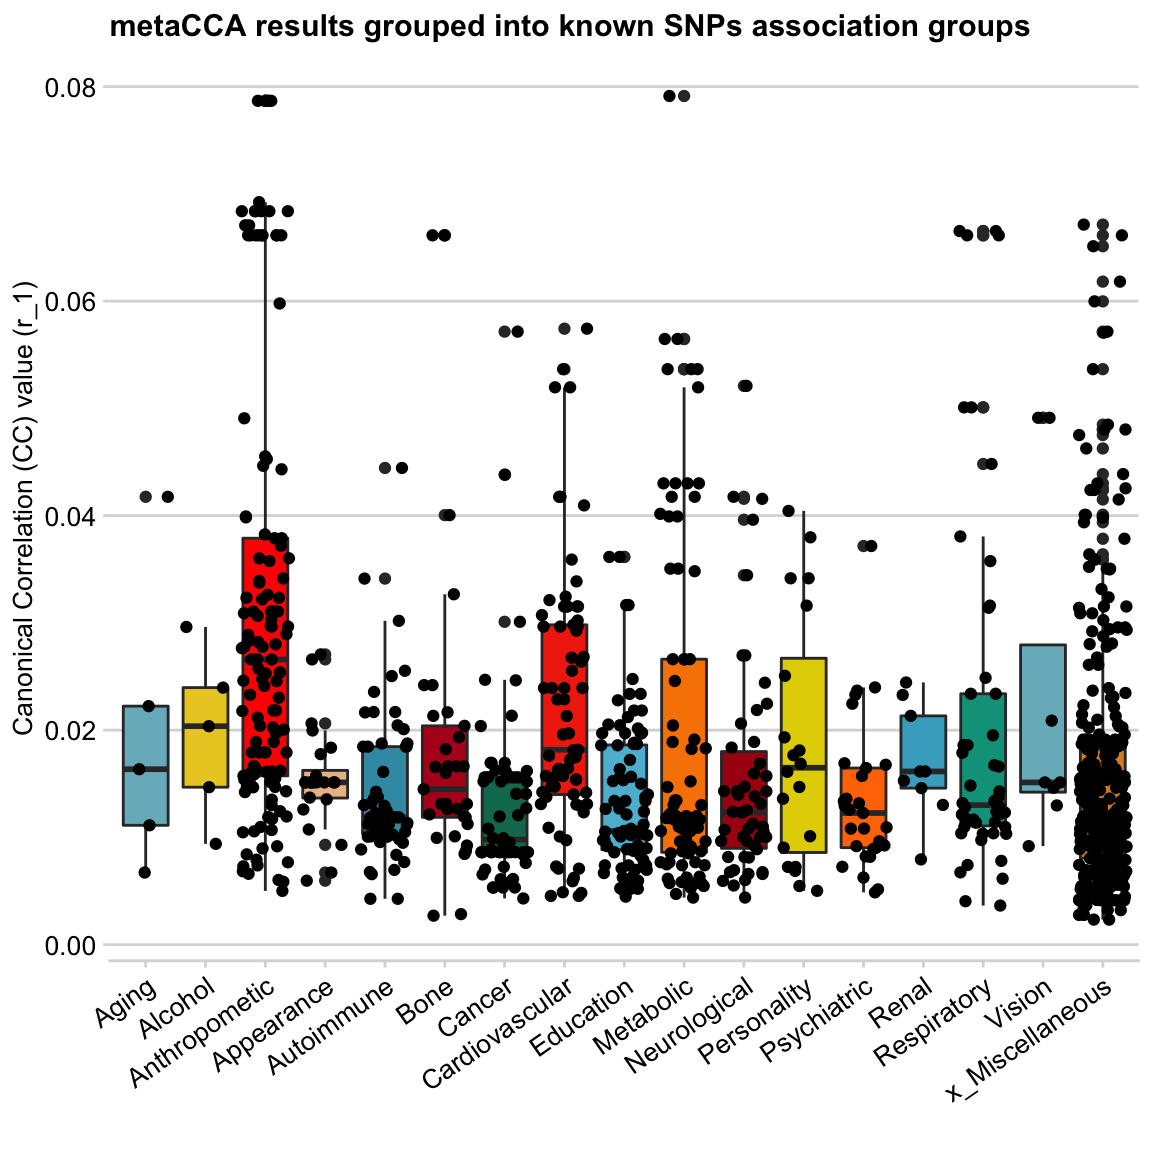
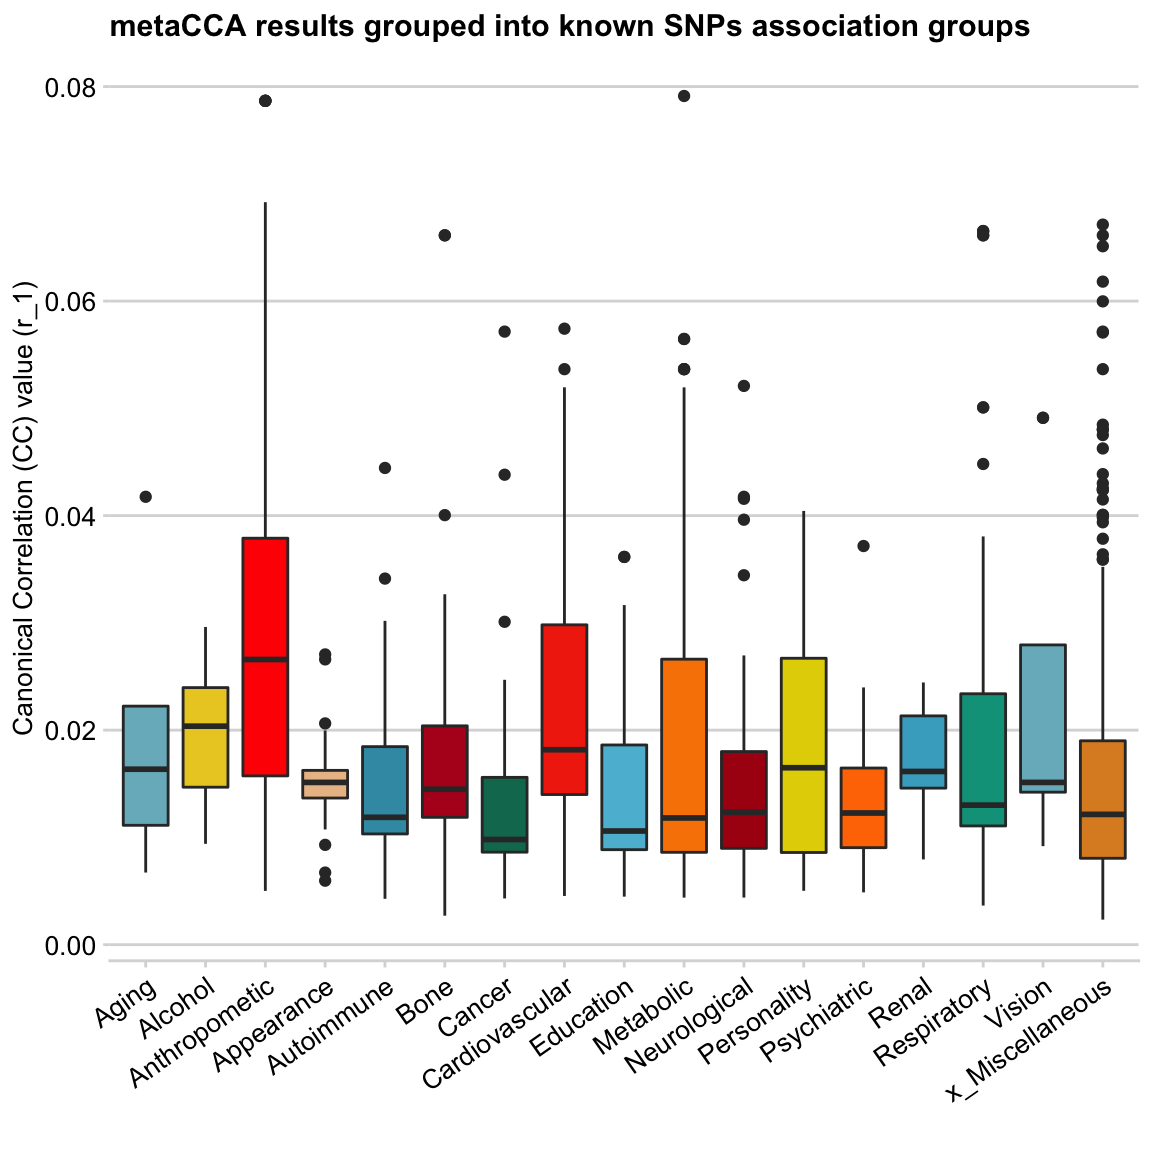
update images in blogpost

diff --git a/content/post/2020-05-20-bubble-box-plot-with-ggplot2.html b/content/post/2020-05-20-bubble-box-plot-with-ggplot2.html
@@ -46,26 +46,50 @@ I like pretty plots so here is how I make a boxplot.
 <div id="building-visualisation" class="section level3">
 <h3>Building visualisation</h3>
 <pre class="r"><code>library(dplyr)
+## 
+## Attaching package: &#39;dplyr&#39;
+## The following objects are masked from &#39;package:stats&#39;:
+## 
+##     filter, lag
+## The following objects are masked from &#39;package:base&#39;:
+## 
+##     intersect, setdiff, setequal, union
+library(readr)
 library(tidyr)
 library(data.table)
+## 
+## Attaching package: &#39;data.table&#39;
+## The following objects are masked from &#39;package:dplyr&#39;:
+## 
+##     between, first, last
+
 library(ggplot2)
 library(wesanderson)
-library(cowplot)</code></pre>
+#library(plotly)
+library(colorspace)
+library(cowplot)
+## 
+## ********************************************************
+## Note: As of version 1.0.0, cowplot does not change the
+##   default ggplot2 theme anymore. To recover the previous
+##   behavior, execute:
+##   theme_set(theme_cowplot())
+## ********************************************************</code></pre>
 <p><strong>First look</strong></p>
 <pre class="r"><code># read data and keep SNPs with lablled category
 dat &lt;- fread(paste0(data_path, &quot;data.tsv&quot;), 
              select=c(&quot;SNPS&quot;, &quot;r_1&quot;, &quot;pval&quot;, &quot;trait_summary&quot;) ) %&gt;% 
-        filter(!is.na(trait_summary))
-# quick look at the data
-dat %&gt;% tail()
-##           SNPS         r_1      pval   trait_summary
-## 2614 rs7236090 0.002700215 0.9290937            Bone
-## 2615 rs3217869 0.002639231 0.9370659     Psychiatric
-## 2616 rs4654748 0.002335776 0.9676382 x_Miscellaneous
-## 2617 rs4654748 0.002335776 0.9676382 x_Miscellaneous
-## 2618 rs4654748 0.002335776 0.9676382 x_Miscellaneous
-## 2619 rs4654748 0.002335776 0.9676382 x_Miscellaneous
-# check number of data points per categoty
+        filter(!is.na(trait_summary))</code></pre>
+<pre class="r"><code># quick look at the data
+dat %&gt;% head()
+##         SNPS        r_1 pval trait_summary
+## 1 rs12236906 0.07912419    0     Metabolic
+## 2 rs11672660 0.07867236    0 Anthropometic
+## 3 rs11672660 0.07867236    0 Anthropometic
+## 4 rs11672660 0.07867236    0 Anthropometic
+## 5 rs11672660 0.07867236    0 Anthropometic
+## 6 rs11672660 0.07867236    0 Anthropometic</code></pre>
+<pre class="r"><code># check number of data points per categoty
 dat %&gt;% count(trait_summary) %&gt;% arrange(desc(n))
 ## # A tibble: 17 x 2
 ##    trait_summary       n
@@ -93,7 +117,7 @@ Let’s start with simple boxplots by category -</p>
 <pre class="r"><code>ggplot(data = dat, 
        mapping = aes(x = trait_summary, y = r_1, fill = trait_summary)) + 
    geom_boxplot() </code></pre>
-<p><img src="/post/2020-05-20-bubble-box-plot-with-ggplot2_files/figure-html/unnamed-chunk-6-1.png" width="100%" /></p>
+<p><img src="/post/2020-05-20-bubble-box-plot-with-ggplot2_files/figure-html/unnamed-chunk-7-1.png" width="80%" /></p>
 <p>This plot serves the purpose of showing what is going on in the dataset, but we can make it look a lot nicer than this.</p>
 <p><strong>Tidy axes</strong></p>
 <p>Firstly, let’s get rid of ggplot2’s default grey background! I’ve recently discovered <a href="https://cran.r-project.org/web/packages/cowplot/vignettes/introduction.html">cowplot</a> package, which is an add-on to ggplot2 that transfers R plots into <strong>publication-ready figures</strong>. Also:</p>
@@ -111,16 +135,16 @@ Let’s start with simple boxplots by category -</p>
         legend.position = &quot;none&quot;)+
   labs(title=&quot;metaCCA results grouped into known SNPs association groups&quot;,
        y = &quot;Canonical Correlation (CC) value (r_1)&quot;, x = &quot;&quot;)</code></pre>
-<p><img src="/post/2020-05-20-bubble-box-plot-with-ggplot2_files/figure-html/unnamed-chunk-7-1.png" width="100%" /></p>
+<p><img src="/post/2020-05-20-bubble-box-plot-with-ggplot2_files/figure-html/unnamed-chunk-8-1.png" width="70%" /></p>
 <p><br>
 <strong>Time for nice colours</strong></p>
 <p>As much as dislike grey background, even more, I resent the rainbow palette. Using it on a categorical data is not a major problem (other than it looks ugly), <a href="https://www.poynter.org/archive/2013/why-rainbow-colors-arent-always-the-best-options-for-data-visualizations/">here</a> is why you should never use it on continuous data.</p>
 <p>I’m always on the lookout for new palettes. Recently I’ve discovered a Wes Anderson movies-themed palette <a href="https://github.com/karthik/wesanderson">R package</a>, and it’s wondeful! The author’s README says <em>“I saved you from boring plots”</em> and it’s so true. I believe the package was inspired by the tumblr account <a href="https://wesandersonpalettes.tumblr.com/">wesandersonpalettes.tumblr.com</a>, so many great palette ideas there!</p>
 <p>The only drawback of these palettes is that they are all quite small, so for my multi-category plot, I will need to make a frankenstein palette. For my current data, I like the colours in <code>Darjeeling1</code> and <code>Zissou1</code></p>
 <pre class="r"><code>wes_palette(&quot;Darjeeling1&quot;)</code></pre>
-<p><img src="/post/2020-05-20-bubble-box-plot-with-ggplot2_files/figure-html/unnamed-chunk-8-1.png" width="100%" /></p>
+<p><img src="/post/2020-05-20-bubble-box-plot-with-ggplot2_files/figure-html/unnamed-chunk-9-1.png" width="30%" /></p>
 <pre class="r"><code>wes_palette(&quot;Zissou1&quot;)</code></pre>
-<p><img src="/post/2020-05-20-bubble-box-plot-with-ggplot2_files/figure-html/unnamed-chunk-9-1.png" width="100%" /></p>
+<p><img src="/post/2020-05-20-bubble-box-plot-with-ggplot2_files/figure-html/unnamed-chunk-10-1.png" width="30%" /></p>
 <p>Here is a finished palette for my 17 categories (skipping the steps of manually selecting the colours)</p>
 <pre class="r"><code>mypal&lt;-c(&quot;#78B7C5&quot;,  &quot;#EBCC2A&quot;, &quot;#FF0000&quot;, &quot;#EABE94&quot;, 
          &quot;#3B9AB2&quot;, &quot;#B40F20&quot;, &quot;#0B775E&quot;, &quot;#F2300F&quot;, 
@@ -130,7 +154,7 @@ Let’s start with simple boxplots by category -</p>
 
 # TIP: use scales library to view the palette you created
 scales::show_col(mypal)</code></pre>
-<p><img src="/post/2020-05-20-bubble-box-plot-with-ggplot2_files/figure-html/unnamed-chunk-10-1.png" width="100%" />
+<p><img src="/post/2020-05-20-bubble-box-plot-with-ggplot2_files/figure-html/unnamed-chunk-11-1.png" width="70%" />
 Adding my new palette to the plot -</p>
 <pre class="r"><code>ggplot(data = dat, mapping = aes(x = trait_summary, y = r_1, fill=trait_summary)) + 
   geom_boxplot()+
@@ -141,7 +165,7 @@ Adding my new palette to the plot -</p>
         legend.position = &quot;none&quot;)+
   labs(title=&quot;metaCCA results grouped into known SNPs association groups&quot;,
        y = &quot;Canonical Correlation (CC) value (r_1)&quot;, x = &quot;&quot;)</code></pre>
-<p><img src="/post/2020-05-20-bubble-box-plot-with-ggplot2_files/figure-html/unnamed-chunk-11-1.png" width="100%" /></p>
+<p><img src="/post/2020-05-20-bubble-box-plot-with-ggplot2_files/figure-html/unnamed-chunk-12-1.png" width="70%" /></p>
 <p>These boxplots look much better to me :tada:</p>
 <p>The colour choice here is random (and somewhat repetitive), except <code>Anthropometric</code> and <code>Cardiovascular</code> categories, which I made bright red to highlight the results of these groups.</p>
 <p><br>
@@ -162,7 +186,7 @@ Adding my new palette to the plot -</p>
         legend.position = &quot;none&quot;)+
   labs(title=&quot;metaCCA results grouped into known SNPs association groups&quot;,
        y = &quot;Canonical Correlation (CC) value (r_1)&quot;, x = &quot;&quot;)</code></pre>
-<p><img src="/post/2020-05-20-bubble-box-plot-with-ggplot2_files/figure-html/unnamed-chunk-12-1.png" width="100%" /></p>
+<p><img src="/post/2020-05-20-bubble-box-plot-with-ggplot2_files/figure-html/unnamed-chunk-13-1.png" width="70%" /></p>
 <p>This does not look too good - looks like a wasp attack! :bee:</p>
 <p>So next I’m going to</p>
 <ul>
@@ -183,7 +207,7 @@ dat &lt;- filter(dat, trait_summary != &quot;x_Miscellaneous&quot;)</code></pre>
         legend.position = &quot;none&quot;)+
   labs(title=&quot;metaCCA results grouped into known SNPs association groups&quot;,
        y = &quot;Canonical Correlation (CC) value (r_1)&quot;, x = &quot;&quot;)</code></pre>
-<p><img src="/post/2020-05-20-bubble-box-plot-with-ggplot2_files/figure-html/unnamed-chunk-14-1.png" width="100%" /></p>
+<p><img src="/post/2020-05-20-bubble-box-plot-with-ggplot2_files/figure-html/unnamed-chunk-15-1.png" width="80%" /></p>
 <p>Looks nice!</p>
 <p>Normally, a <a href="https://www.data-to-viz.com/graph/bubble.html">bubble plot</a> is simply a scatter plot with an extra dimension added by the <code>size</code> of the dots. Here, I have used boxplot’s jitter option as my bubble plot base, so technically I already have an extra dimension of data grouped nto vertical ‘box’ categories.</p>
 <p><br>
@@ -212,7 +236,7 @@ dat &lt;- mutate(dat,
        size = &quot;-log10pval&quot;)+
   # don&#39;t show legend for colour and transparency
   guides(alpha = FALSE, colour=FALSE)</code></pre>
-<p><img src="/post/2020-05-20-bubble-box-plot-with-ggplot2_files/figure-html/unnamed-chunk-16-1.png" width="100%" /></p>
+<p><img src="/post/2020-05-20-bubble-box-plot-with-ggplot2_files/figure-html/unnamed-chunk-17-1.png" width="85%" /></p>
 <p>On the bubble plot, you can see that there is a positive relationship between SNPs’ correlation value (y-axis) and p-value: SNPs with low <code>r_1</code> value also have low log-transformed p-values (i.e. large p-value), which makes sense.</p>
 <p>I think this is where I want to stop for now. This purpose of this post is not to talk about the analysis I’ve done on metaCCA results, but to show my workflow and thought process from ugly-default-ggplot2 to publication-ready plot with nice colours (in my humble opinion!)</p>
 <p><br><br></p>
